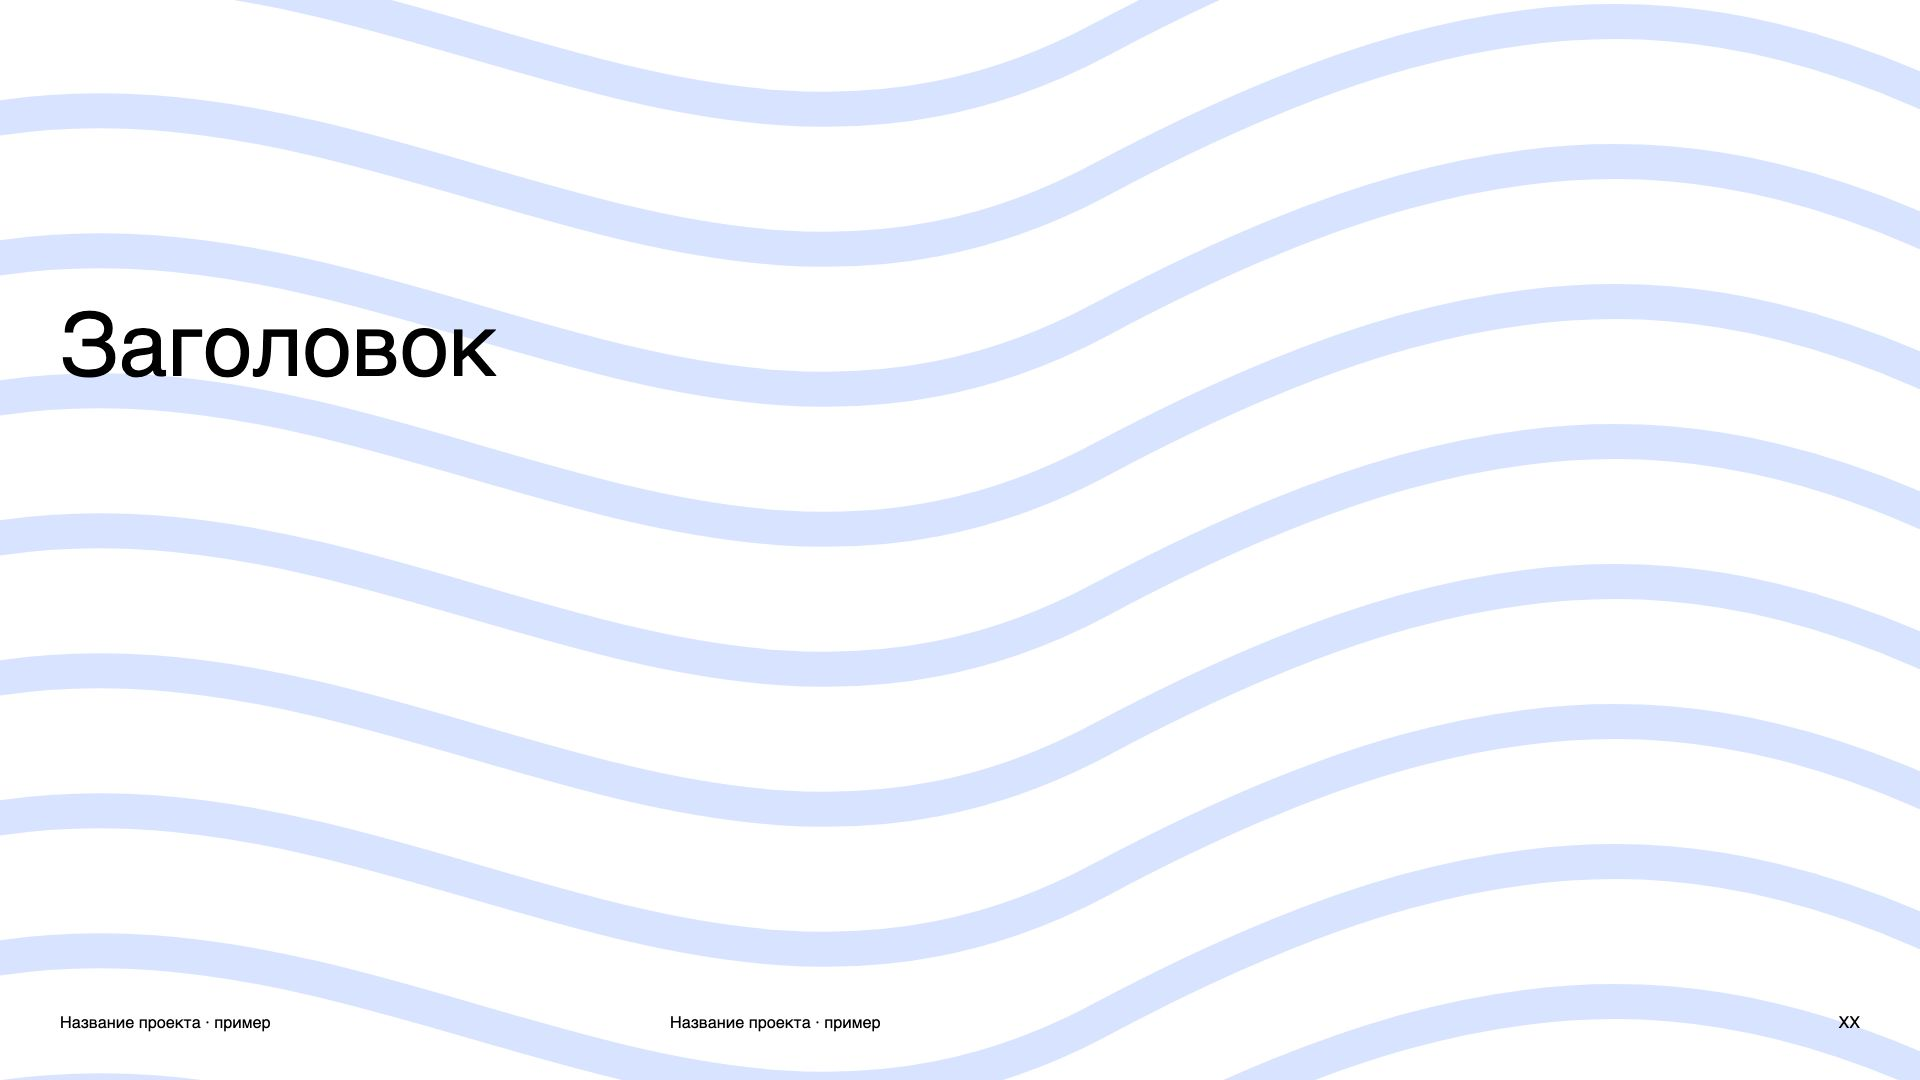
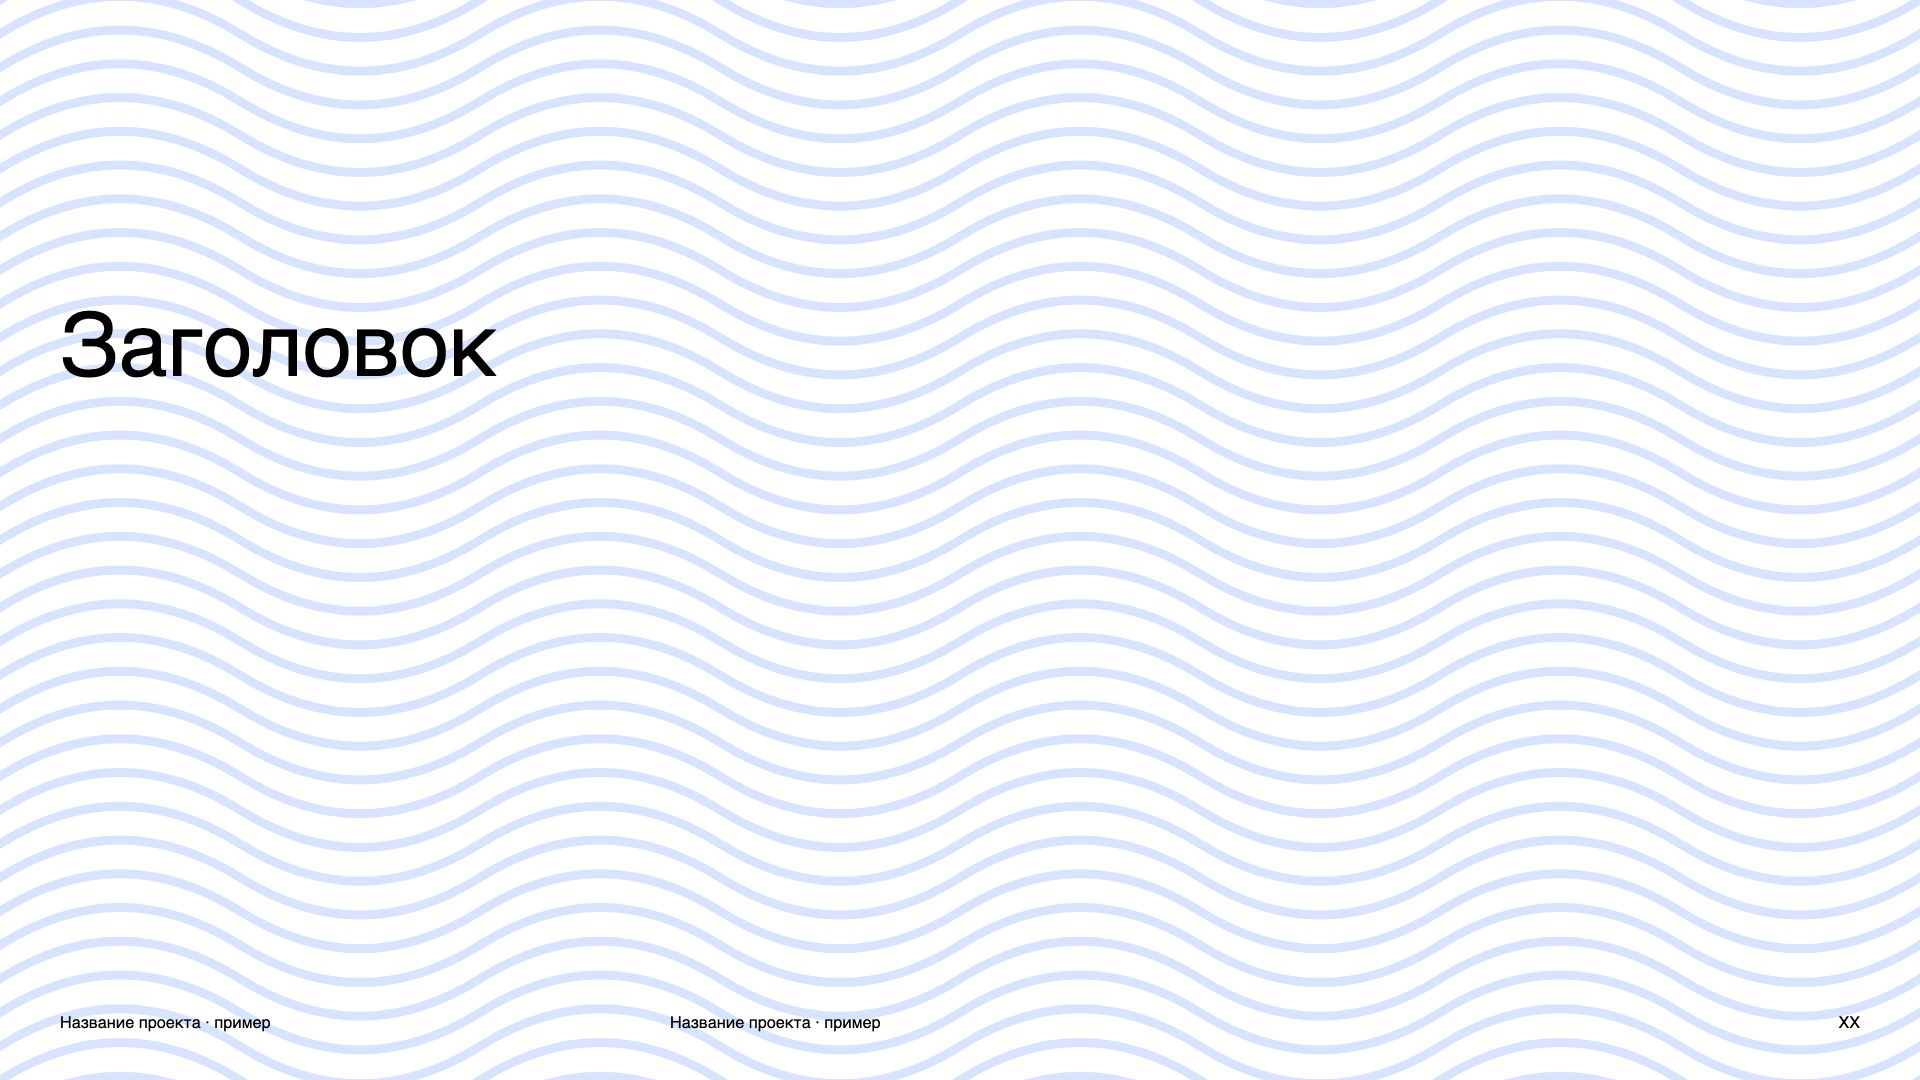
Reduce wave pattern scale fourfold and tile seamlessly

diff --git a/skills/redo-present/assets/templates/neutral/styles.css b/skills/redo-present/assets/templates/neutral/styles.css
@@ -29,4 +29,4 @@ p{margin:0}
 @page{size:20in 11.25in;margin:0}
 @media print{.slide-page{width:1920px;height:1080px;background:none}.slide{transform:none!important;margin:0!important;break-after:page;print-color-adjust:exact;-webkit-print-color-adjust:exact}}
 
-.wave-pattern{position:absolute;inset:0;pointer-events:none;background:currentColor;mask:var(--pattern-image) center/cover no-repeat;-webkit-mask:var(--pattern-image) center/cover no-repeat;opacity:var(--pattern-opacity);z-index:0}.placeholder-media{object-fit:cover}.slide>div>p,.slide>div>div:has(>p){z-index:1}
+.wave-pattern{position:absolute;inset:0;pointer-events:none;background:currentColor;mask:var(--pattern-image) 0 0/var(--pattern-size) repeat;-webkit-mask:var(--pattern-image) 0 0/var(--pattern-size) repeat;opacity:var(--pattern-opacity);z-index:0}.placeholder-media{object-fit:cover}.slide>div>p,.slide>div>div:has(>p){z-index:1}

diff --git a/skills/redo-present/assets/templates/neutral/theme.css b/skills/redo-present/assets/templates/neutral/theme.css
@@ -1,1 +1,1 @@
-:root{--font-brand:Helvetica,"Helvetica Neue",Arial,sans-serif;--color-black:#000000;--color-white:#ffffff;--color-blue:#1557ff;--color-blue-soft:color-mix(in srgb,var(--color-blue) 12%,var(--color-white));--color-line:color-mix(in srgb,var(--color-black) 22%,var(--color-white));--pattern-image:url("./assets/waves.svg");--pattern-opacity:.16;--slide-width:1920px;--slide-height:1080px}
+:root{--font-brand:Helvetica,"Helvetica Neue",Arial,sans-serif;--color-black:#000000;--color-white:#ffffff;--color-blue:#1557ff;--color-blue-soft:color-mix(in srgb,var(--color-blue) 12%,var(--color-white));--color-line:color-mix(in srgb,var(--color-black) 22%,var(--color-white));--pattern-image:url("./assets/waves.svg");--pattern-opacity:.16;--pattern-size:480px 270px;--slide-width:1920px;--slide-height:1080px}

diff --git a/skills/redo-present/assets/templates/neutral/instructions.md b/skills/redo-present/assets/templates/neutral/instructions.md
@@ -10,7 +10,7 @@
 
 - `--font-brand`: по умолчанию Helvetica с системными заменами Helvetica Neue и Arial. Файл коммерческого шрифта не включён. Для нового бренда добавьте разрешённый файл шрифта, объявите `@font-face` и замените семейство.
 - `--color-black`, `--color-white`, `--color-blue`: тёмный фон/текст, светлый фон/текст и акцент. Названия обозначают роли; сами цвета можно заменить. Вспомогательные оттенки вычисляются автоматически.
-- `--pattern-image`: заменяемый SVG-узор. По умолчанию `assets/waves.svg`. Он используется как маска, поэтому цвет берётся из темы; непрозрачность задаёт `--pattern-opacity`.
+- `--pattern-image`: заменяемый SVG-узор. По умолчанию `assets/waves.svg`. Он используется как маска, поэтому цвет берётся из темы; непрозрачность задаёт `--pattern-opacity`. Размер повторяемой плитки задаёт `--pattern-size`: 480 × 270 px, в четыре раза меньше размера слайда по каждой стороне. Волны бесшовно повторяются.
 
 Файлы `assets/nature-1.png` … `nature-5.png` — сгенерированные демонстрационные пейзажи: океан, горное озеро, лес, дюны и водопад. При адаптации заменяйте их на изображения клиента. Они не документируют реальные объекты или места. Полные промпты и способ генерации записаны в `assets/nature-prompts.json`. Узор волн создан отдельно и не содержит исходной фирменной графики.
 
